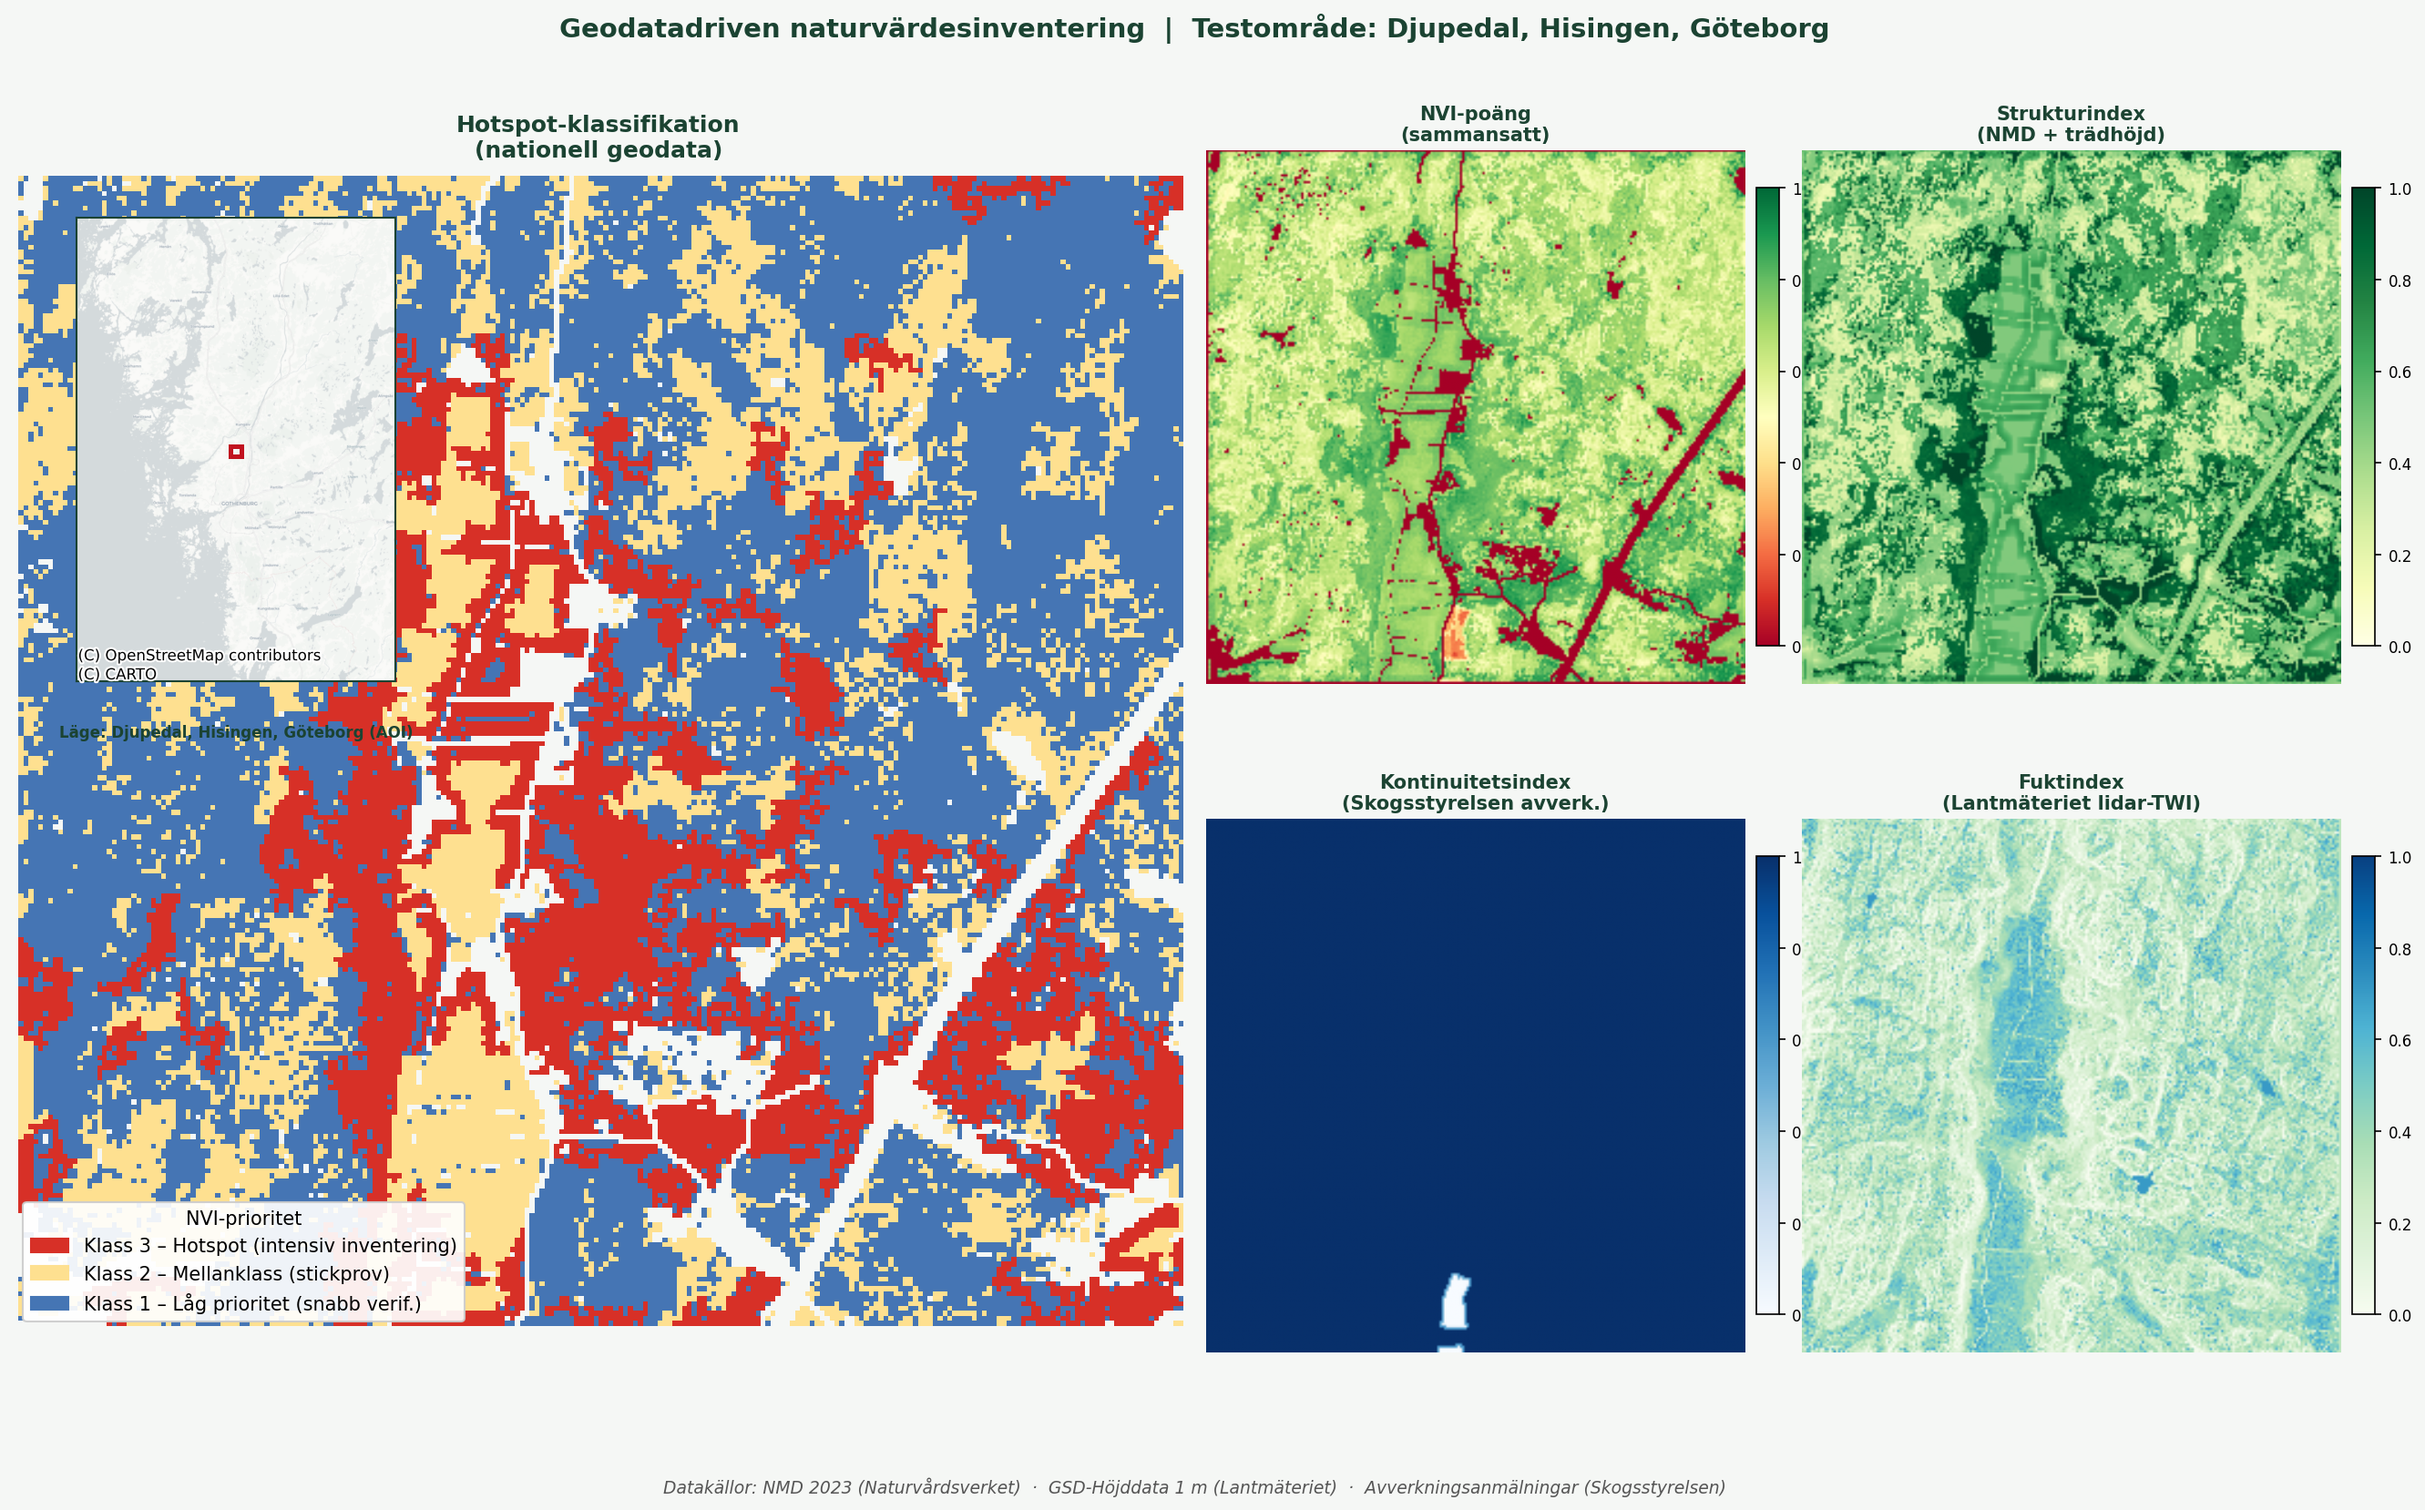
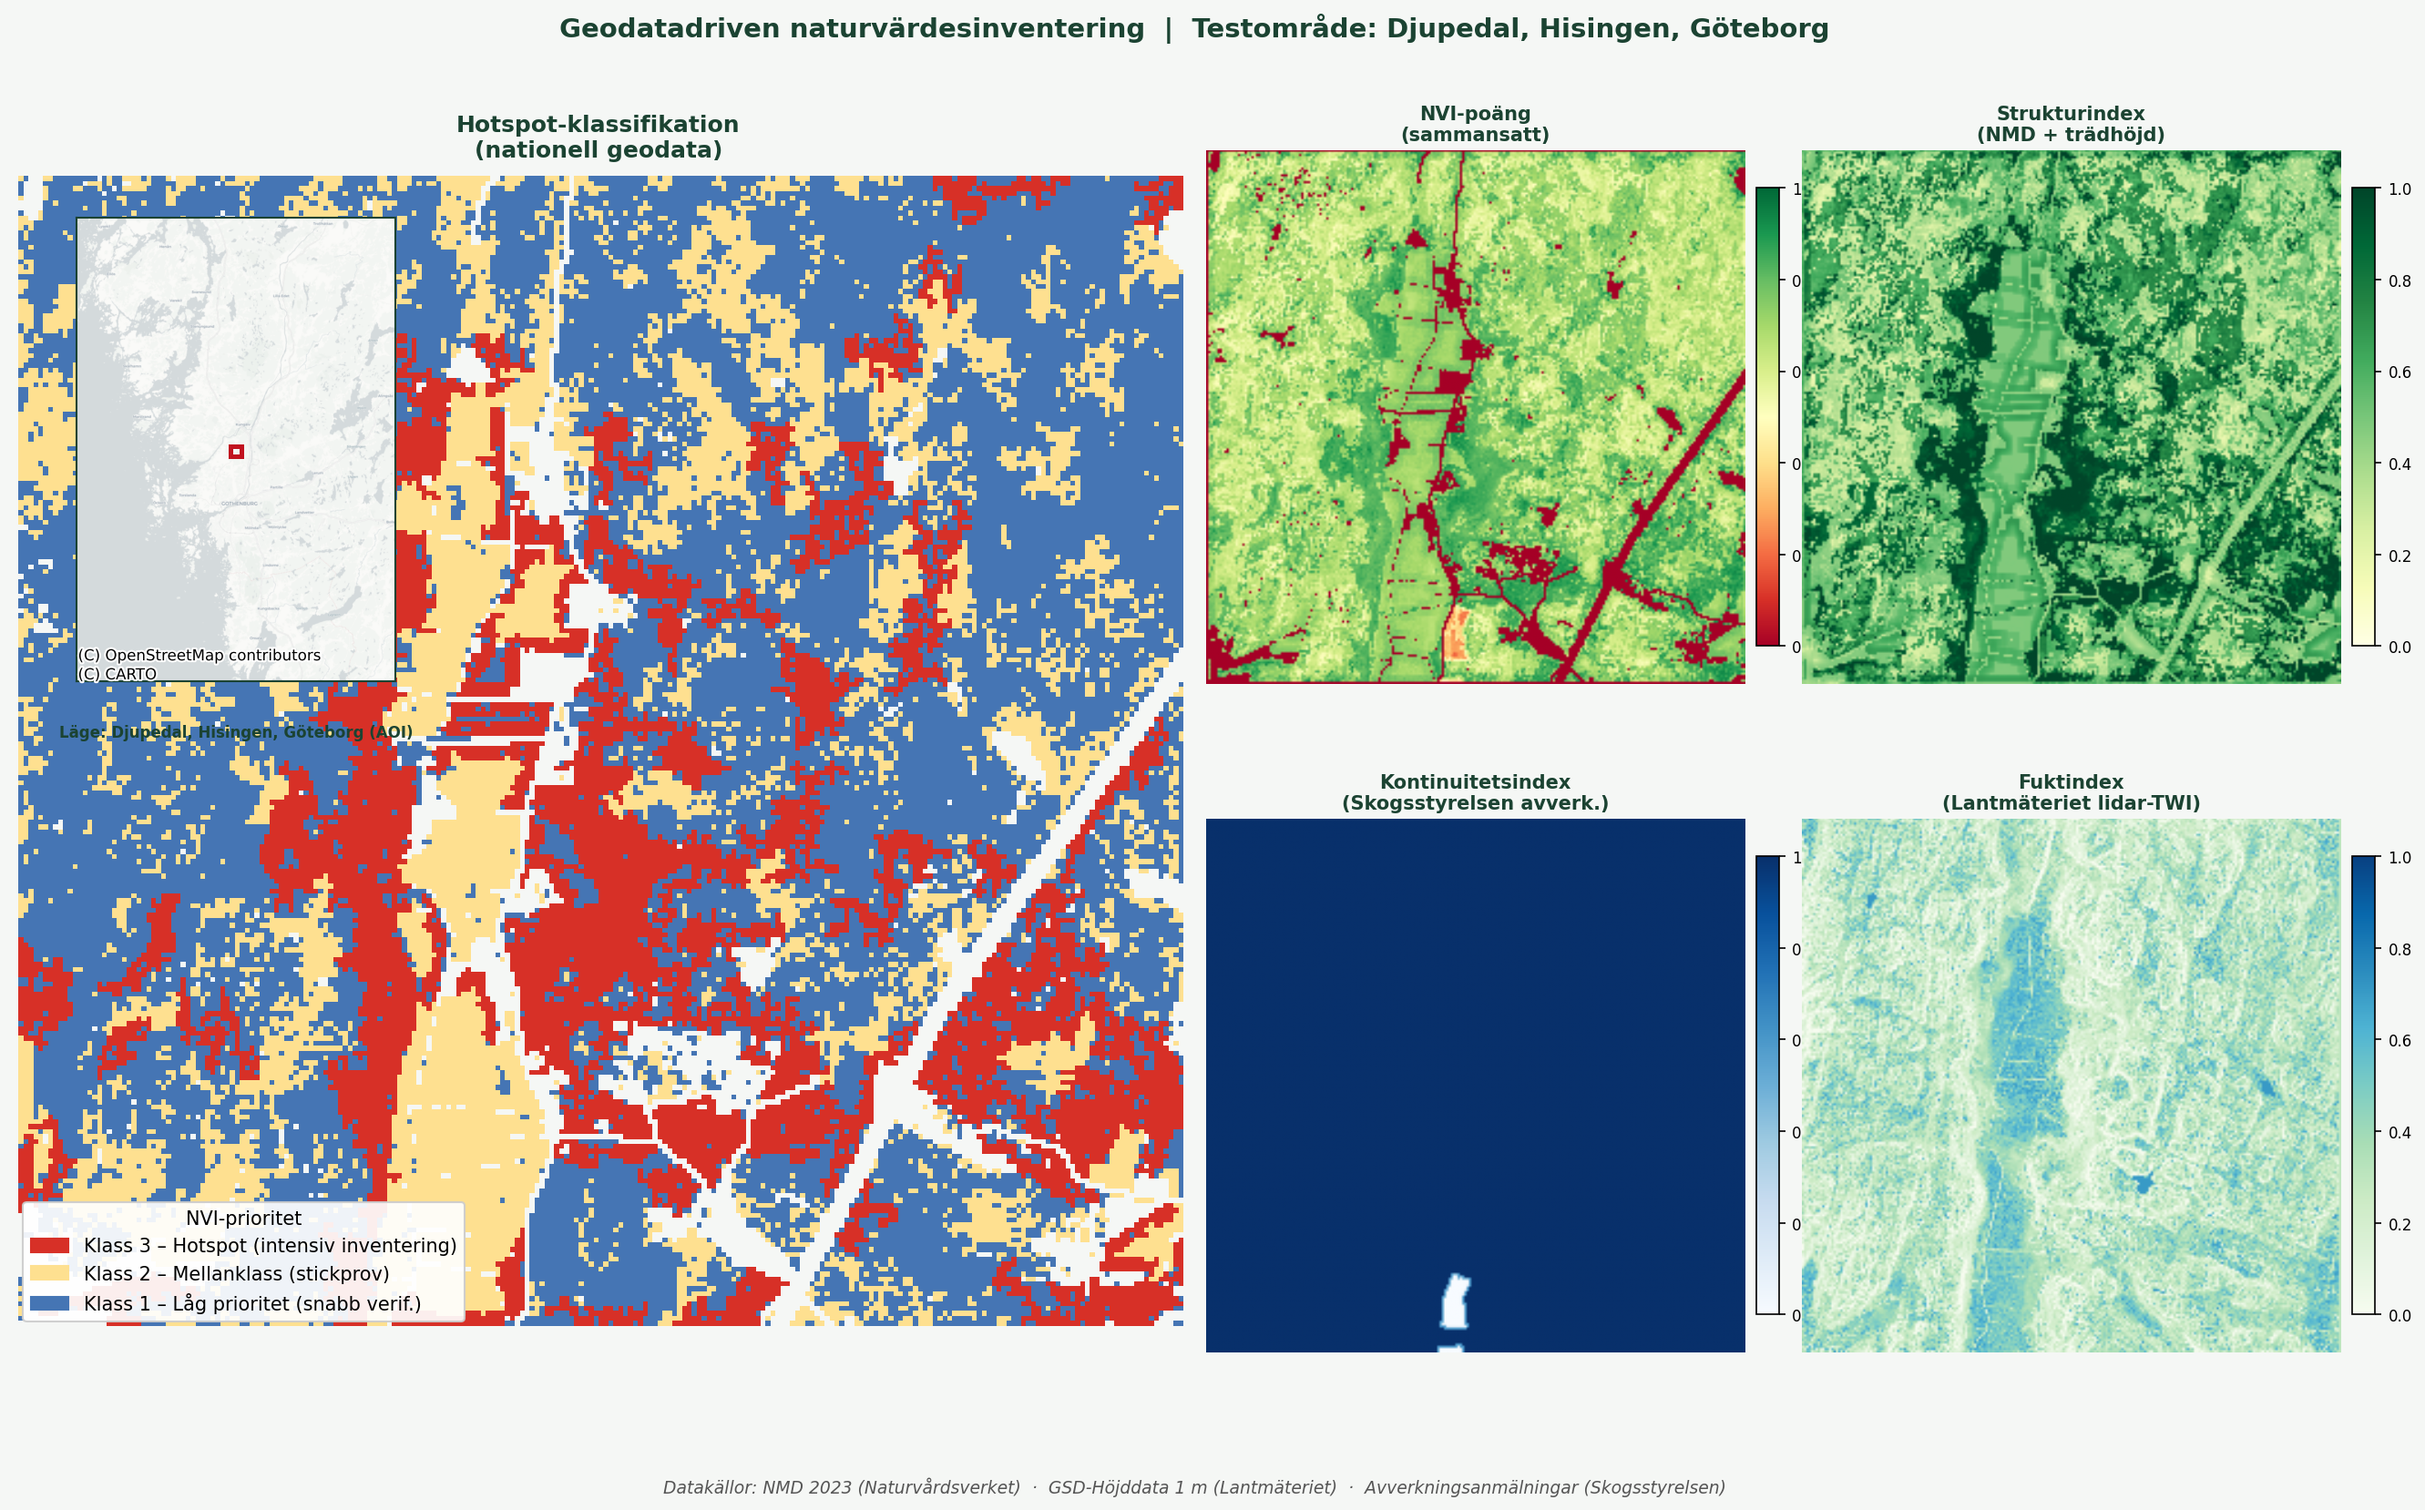
Integrera SLU Skogliga Grunddata (VOL) som ålderspoxy
- download_data.py: ersätter trasig WCS med GDAL vsicurl-streaming
  mot Skogsstyrelsens öppna FTP (ftpsks.skogsstyrelsen.se). Hämtar
  BIO, DGV, VOL för AOI-fönster (~sekunder, ej hela ~4 GB-rastern)
- compute_indices.py: SLU VOL (virkesförråd) adderas som ålders-/
  mognadsbonus (+12 %) i strukturindexet; hjälper skilja gammal
  naturskog från ung sekundär lövskog med liknande trädhöjd
- Validering bibehåller 73 % areal-viktad träff (fas 1-nivå)

FTP-credentials är publikt dokumenterade på skogsstyrelsen.se/ftp.

diff --git a/scripts/python/download_data.py b/scripts/python/download_data.py
@@ -450,48 +450,72 @@ def download_nnk() -> None:
 
 SLU_WCS = "https://maps.slu.se/geoserver/slu/wcs"
 
+# Skogsstyrelsens öppna FTP (publika credentials från skogsstyrelsen.se/ftp)
+SLU_FTP_HOST  = "ftpsks.skogsstyrelsen.se"
+SLU_FTP_USER  = "SGD"
+SLU_FTP_PASS  = "0N!nd=I9EJ"
+SLU_FTP_FOLDER = "SkogligaGrunddata_omdrev2_2025_leverans1"
+
+# Variabler att hämta: (FTP-filnamn, lokalt namn)
+SLU_VARS = [
+    ("BIO", "slu_bio_aoi.tif"),   # Biomassa (ton ts/ha) – ålderspoxy
+    ("DGV", "slu_dgv_aoi.tif"),   # Medeldiameter (cm)  – ålderspoxy
+    ("VOL", "slu_vol_aoi.tif"),   # Virkesförråd (m³sk/ha) – ålderspoxy
+]
+
+
 def download_slu_grunddata() -> None:
-    print("\n[SLU Skogliga Grunddata]")
+    """Hämtar SLU Skogliga Grunddata (BIO, DGV, VOL) för AOI via GDAL vsicurl/FTP.
+
+    Skogsstyrelsen tillhandahåller nationella 10 m-raster via öppet FTP
+    (https://www.skogsstyrelsen.se/e-tjanster-och-kartor/karttjanster/
+    geodatatjanster/ftp/). GDAL:s vsicurl streamar bara AOI-fönstret
+    utan att ladda ner hela filen (~4 GB/variabel).
+    """
+    print("\n[SLU Skogliga Grunddata – FTP streaming]")
 
     x_min, y_min, x_max, y_max = aoi_sweref()
+    aoi_bounds = (x_min, y_min, x_max, y_max)
 
-    # Prova WCS GetCapabilities
-    caps_url = (
-        f"{SLU_WCS}?SERVICE=WCS&VERSION=2.0.1&REQUEST=GetCapabilities"
-    )
     try:
-        resp = requests.get(caps_url, timeout=20)
-        # GeoServer returnerar HTML om tjänsten är en SPA – inte WCS
-        if "<!doctype html" in resp.text.lower() or resp.status_code != 200:
-            raise ValueError("WCS-endpoint returnerar inte giltig XML")
+        import rasterio
+        from rasterio.windows import from_bounds as _from_bounds
+        import urllib.parse as _up
+        import numpy as _np
+    except ImportError as e:
+        print(f"  [FEL] Saknar paket: {e}")
+        return
 
-        import re
-        ids = re.findall(r'<[^>]*Identifier[^>]*>(.*?)</', resp.text)
-        if not ids:
-            raise ValueError("Inga coverages i WCS")
+    # Koda lösenord URL-säkert (! och = är specialtecken)
+    pw_enc = _up.quote(SLU_FTP_PASS, safe="")
+    base_url = f"ftp://{SLU_FTP_USER}:{pw_enc}@{SLU_FTP_HOST}/{SLU_FTP_FOLDER}"
 
-        print(f"  WCS tillganglig – hittade coverages: {ids[:5]}")
+    for var_name, local_fname in SLU_VARS:
+        out_path = SLU_DIR / local_fname
+        if out_path.exists():
+            print(f"  [skip] {local_fname} finns redan")
+            continue
 
-        for layer_id, fname in [
-            (ids[0], "slu_biomassa_aoi.tif"),
-            (ids[1] if len(ids) > 1 else ids[0], "slu_hojd_aoi.tif"),
-        ]:
-            wcs_url = (
-                f"{SLU_WCS}?SERVICE=WCS&VERSION=2.0.1&REQUEST=GetCoverage"
-                f"&COVERAGEID={urllib.parse.quote(layer_id)}"
-                f"&SUBSET=E({x_min:.0f},{x_max:.0f})"
-                f"&SUBSET=N({y_min:.0f},{y_max:.0f})"
-                "&FORMAT=image/geotiff"
-            )
-            download_file(wcs_url, SLU_DIR / fname)
-
-    except Exception as e:
-        print(f"  [INFO] SLU WCS ej tillganglig: {e}")
-        print(
-            "  Registrera for SLU Skogliga Grunddata:\n"
-            "  https://www.slu.se/miljoanalys/statistik-och-miljodata/"
-            "miljodatakatalogen/skogliga-grunddata/"
-        )
+        url = f"/vsicurl/{base_url}/{var_name}.tif"
+        print(f"  Laddar {var_name} (streaming)...", end=" ", flush=True)
+        try:
+            with rasterio.open(url) as src:
+                win = _from_bounds(*aoi_bounds, src.transform)
+                data = src.read(1, window=win).astype("float32")
+                data[data <= 0] = -9999.0
+                t = src.window_transform(win)
+                meta = src.meta.copy()
+                meta.update({
+                    "width": data.shape[1], "height": data.shape[0],
+                    "transform": t, "dtype": "float32",
+                    "nodata": -9999.0, "compress": "lzw",
+                })
+            with rasterio.open(out_path, "w", **meta) as dst:
+                dst.write(data, 1)
+            valid = data[data > -9999]
+            print(f"sparat | median={_np.median(valid):.0f} max={valid.max():.0f}")
+        except Exception as e:
+            print(f"\n  [VARNING] Kunde inte hamta {var_name}: {e}")
 
 
 # ── 4. Lantmäteriet GSD-Höjddata (STAC API) ──────────────────────────────────

diff --git a/scripts/python/compute_indices.py b/scripts/python/compute_indices.py
@@ -300,6 +300,18 @@ def build_structure_index():
             except Exception as _e:
                 print(f"  [VARNING] NNK-bonus misslyckades: {_e}")
 
+        # SLU virkesförråd (VOL) – ålderspoxy: hög volym = gammal skog = högt naturvärde.
+        # Avgörande för att skilja gammal naturskog från ung sekundär lövskog med
+        # liknande trädhöjd. Ladda ner med: python download_data.py --slu
+        slu_vol_files = sorted(SLU_DIR.glob("slu_vol_aoi.tif"))
+        if slu_vol_files:
+            vol, _ = clip_and_read(slu_vol_files[0], crs_is_sweref=True)
+            vol = np.where((vol > -9000) & np.isfinite(vol), vol, 0.0)
+            vol = resample_to(vol, structure.shape)
+            vol_norm = normalize(vol, p_lo=5, p_hi=95)
+            structure += vol_norm * 0.12
+            print("  + SLU VOL alderspoxy (12 % vikt)")
+
         return np.clip(structure, 0, 1), meta
 
     # D. Fallback: Hansen treecover2000 (global, alltid tillgänglig)
